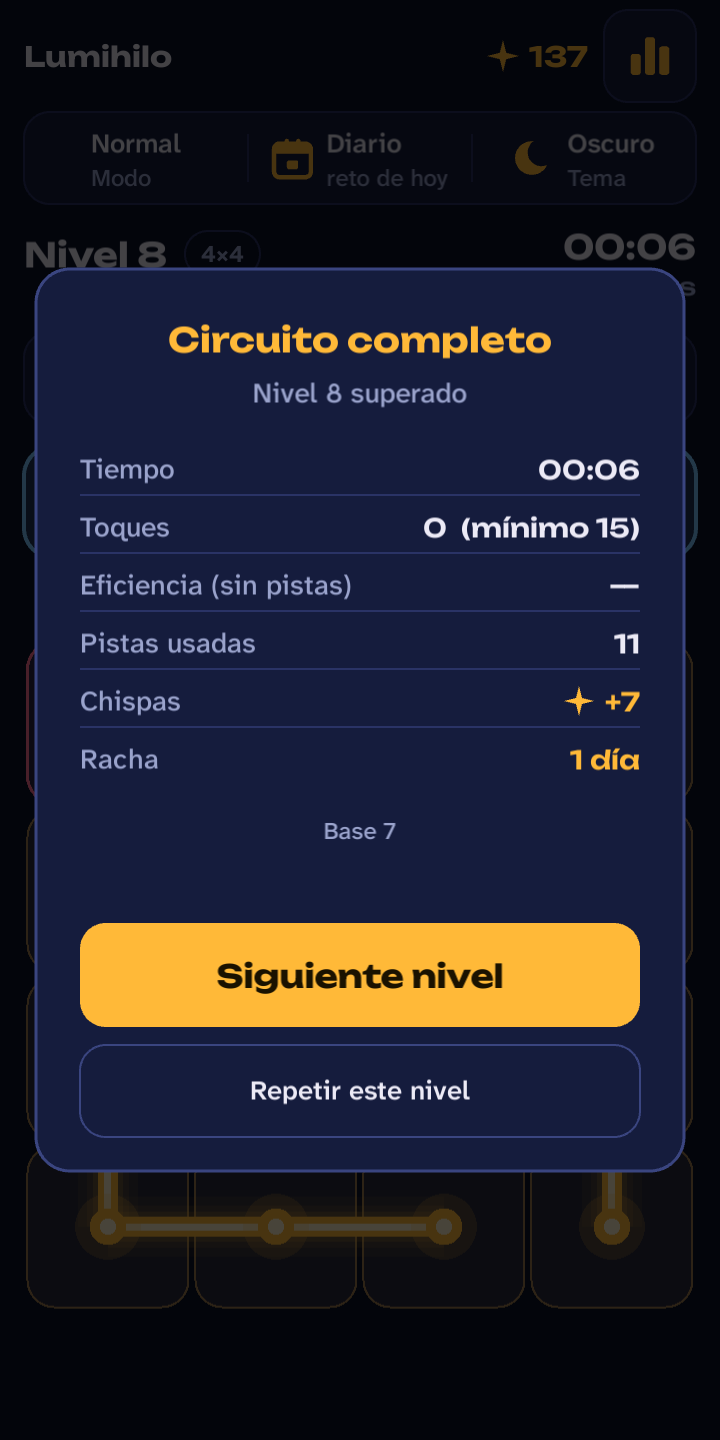
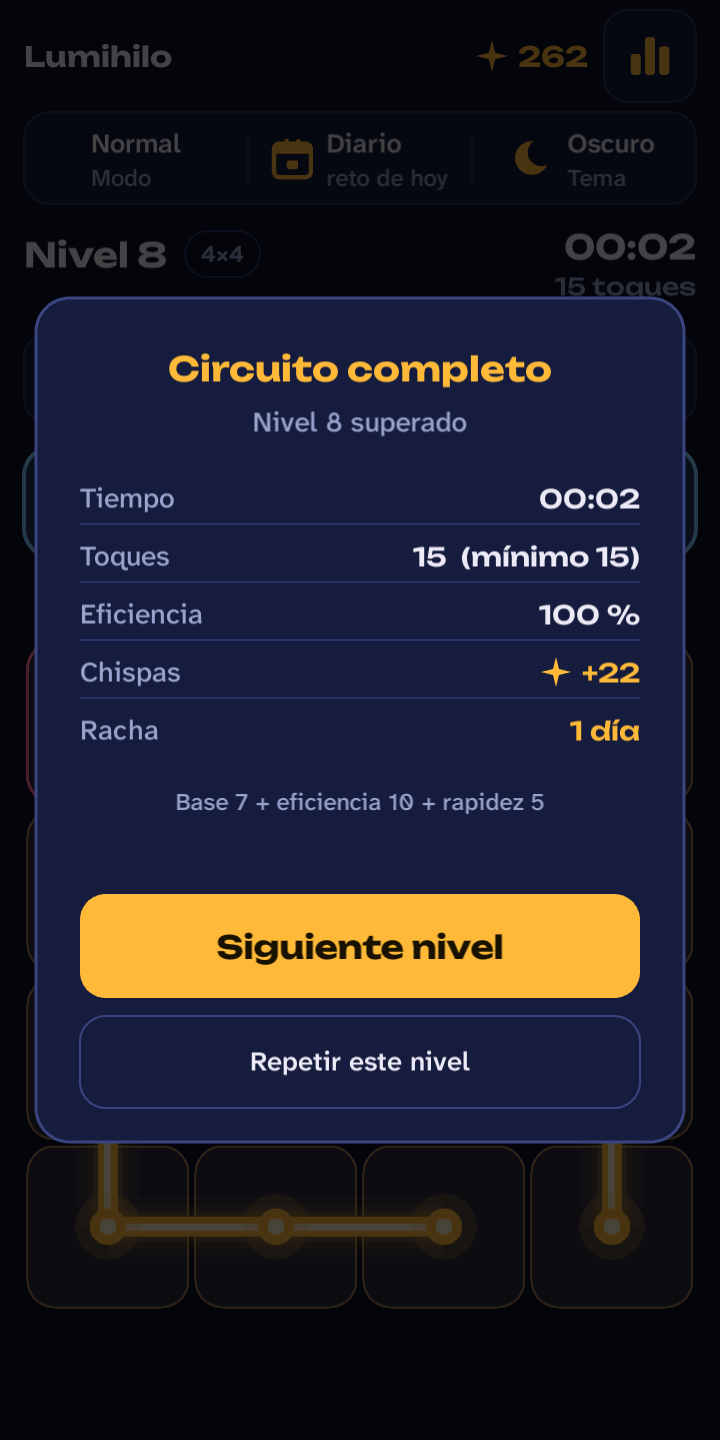
docs(tienda): captura de victoria real y nombre libre en Google Play

diff --git a/docs/09-nombre.md b/docs/09-nombre.md
@@ -17,7 +17,7 @@ Además, a quien lo eligió le recuerda a **Hermosillo**, su ciudad natal: el so
 
 ## Pendiente de comprobar antes de publicar en tiendas
 
-- ~~Steam~~: buscado por el autor, sin resultados iguales (2026-11-07). Faltan Google Play y App Store.
+- ~~Steam~~: buscado por el autor, sin resultados iguales (2026-11-07). Google Play: buscado por el autor, no existe (2026-11-09). Falta App Store.
 - El buscador de marcas del IMPI dio error al consultar (2026-11-07); reintentar más adelante.
 - Consultar el registro de marcas (IMPI en México, y USPTO/EUIPO si se publica fuera): existen productos de hilo llamados "Lumi Hilo" (clase de textiles), distintos de un videojuego, pero conviene confirmarlo.
 - Registrar el dominio y los usuarios de redes sociales si se quieren usar.
